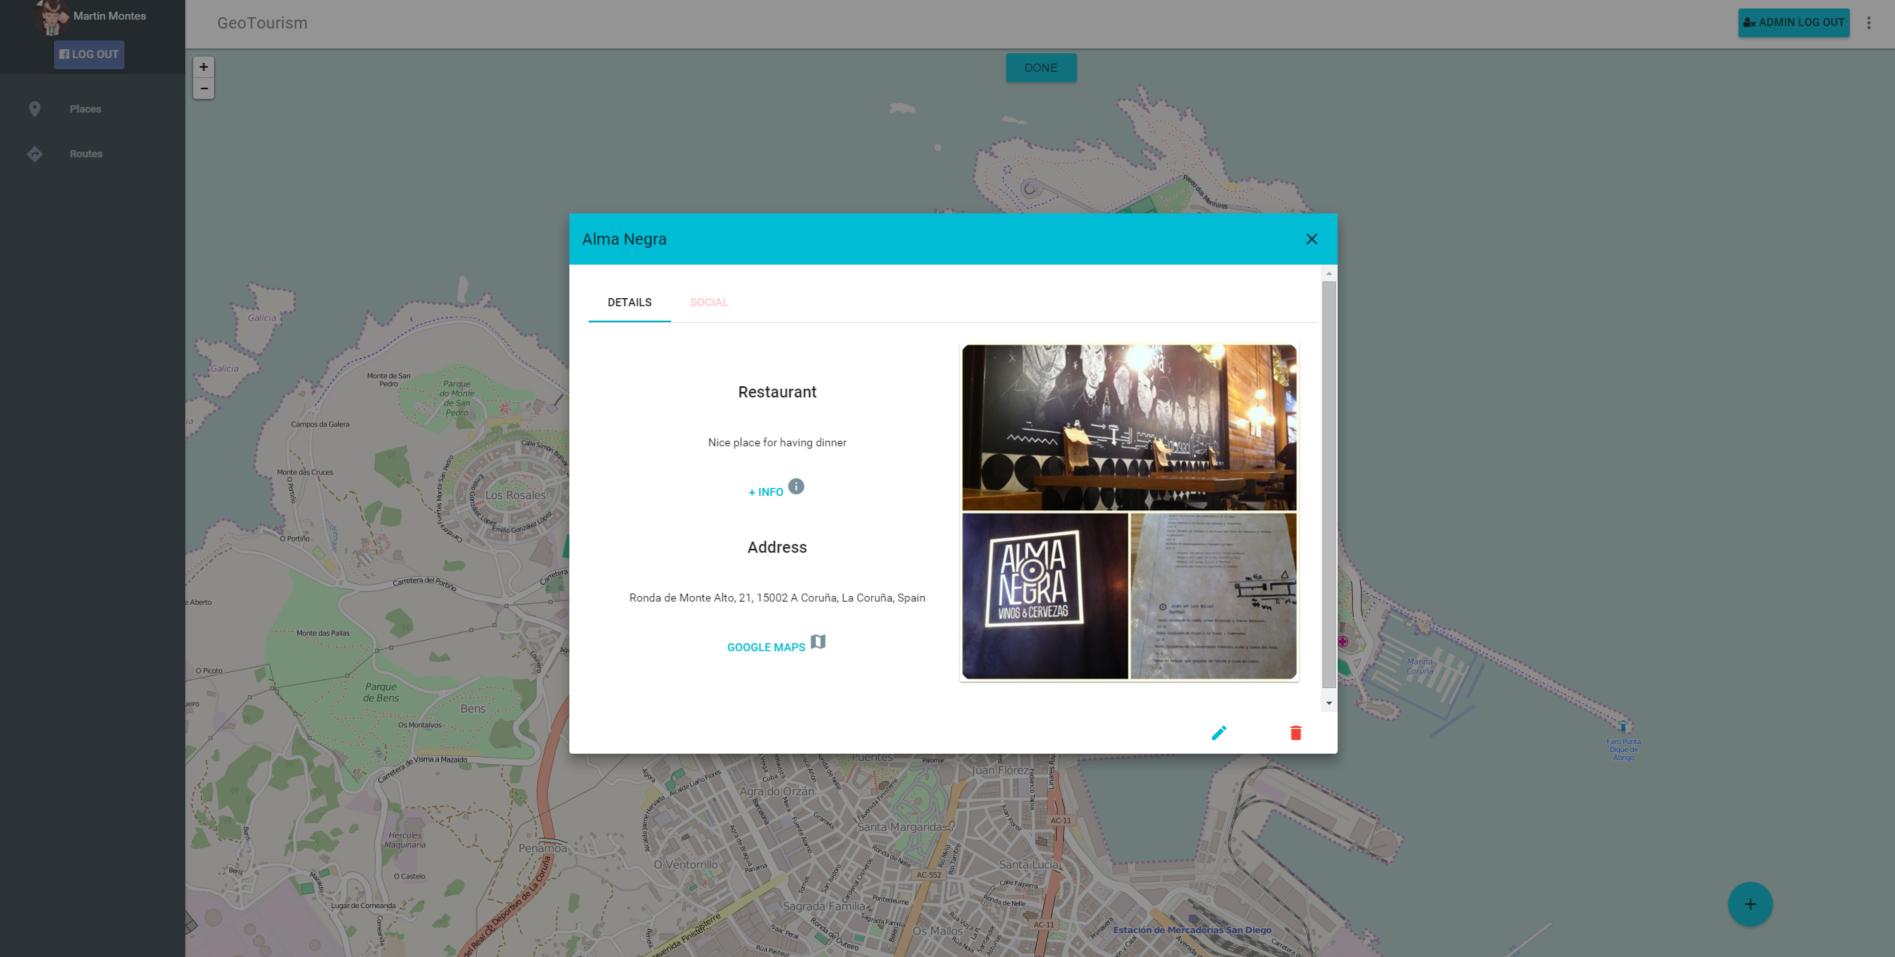
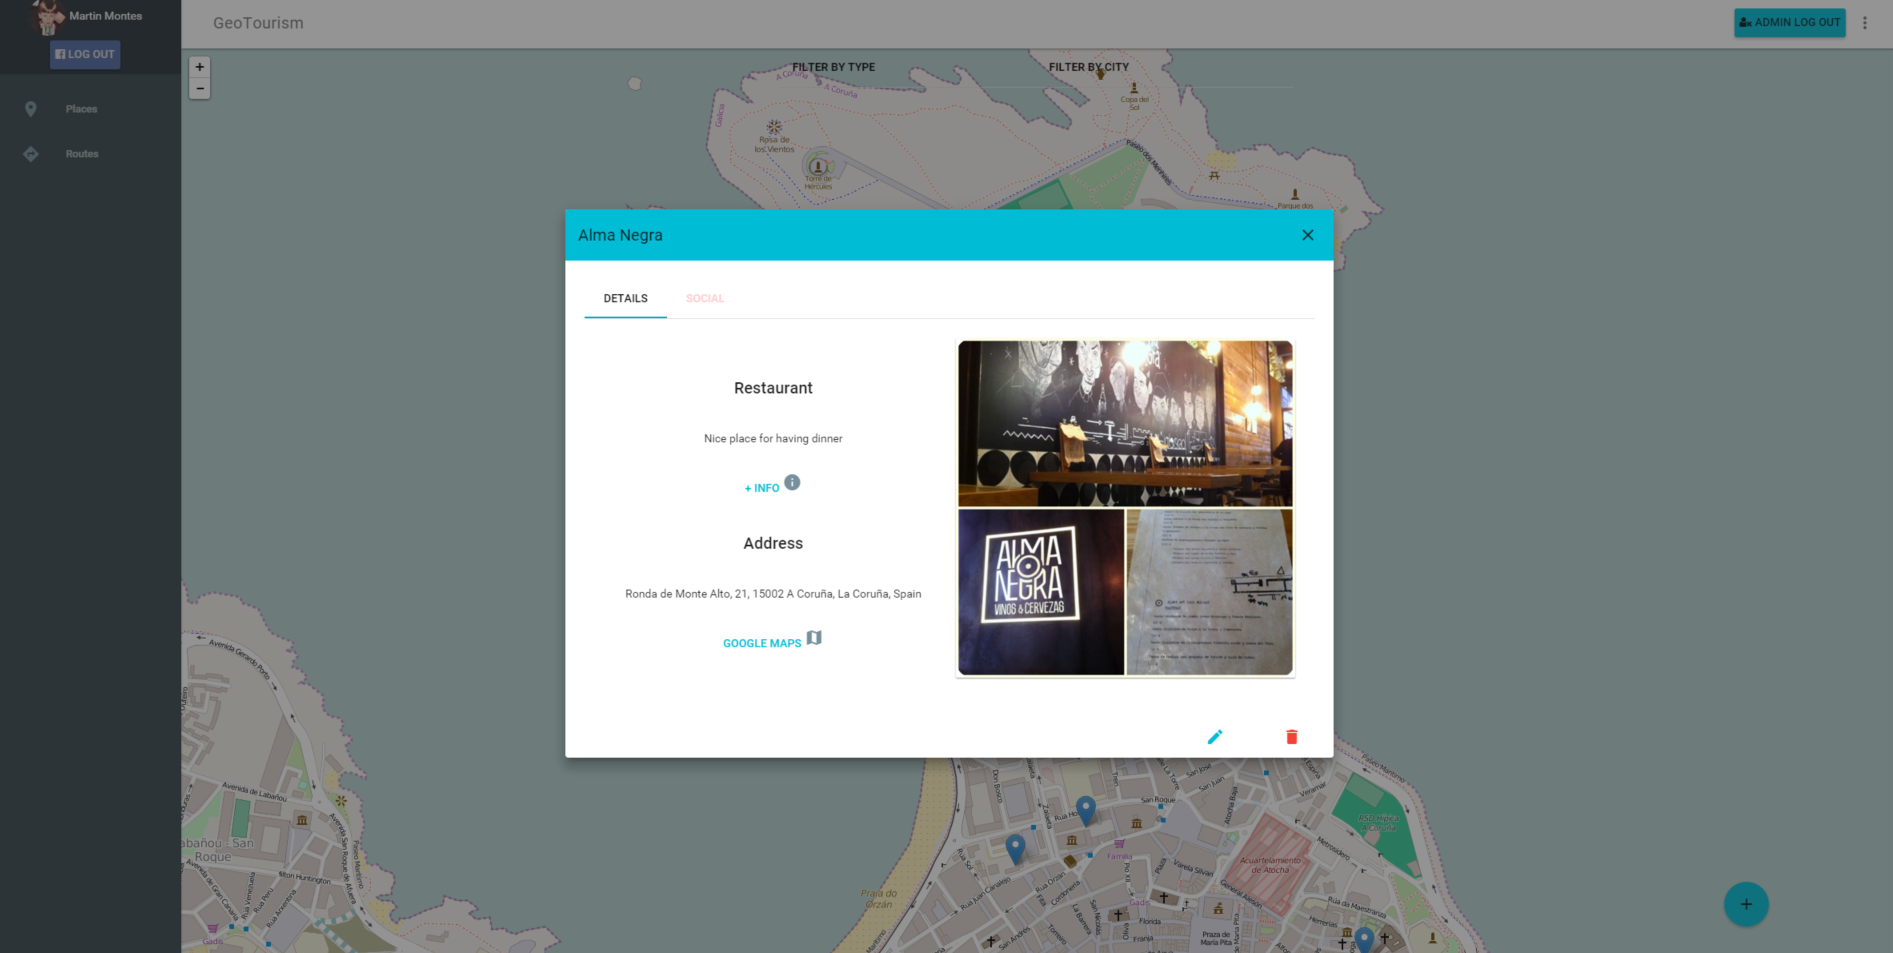
Updated project

diff --git a/index.html b/index.html
@@ -254,7 +254,8 @@
             <div class="row">
                 <div class="col-lg-12">
                     <div class="modal-body">
-                        <img src="img/portfolio/GeoTourism_Dark.jpg" class="img-responsive img-centered img-portfolio-details"
+                        <img src="img/portfolio/GeoTourism_Dark.jpg"
+                             class="img-responsive img-centered img-portfolio-details"
                              alt="">
 
                         <div class="tab-content">
@@ -270,12 +271,22 @@
                                 </li>
                             </ul>
                             <div id="descriptionGeoTourism" class="tab-pane fade in active">
-                                <p>GeoTourism is a management platform for places and routes of touristic interested<p>
-                                <p>The platform has a RESTful webservice implemented with Spring that exposes operations related with places and routes and manages
-                                    the different type of users. The data is stored in a PostgreSQL database and is accessed using Hibernate Spatial</p>
-                                <p>The platform also consumes external APIs such as: Amazon Web Services(S3), Google Maps, Facebook ...</p>
-                                <p>The client side is implemented with AngularJS, that consumes the RESTful webservice and represents the spatial data using a
-                                    Leaflet map. In order to achieve a better user experience, I used Angular Material which allows you to make a responsive front end
+                                <p>GeoTourism is a management platform for places and routes of touristic interested
+
+                                <p>
+
+                                <p>The platform has a RESTful webservice implemented with Spring that exposes operations
+                                    related with places and routes and manages
+                                    the different type of users. The data is stored in a PostgreSQL database and is
+                                    accessed using Hibernate Spatial</p>
+
+                                <p>The platform also consumes external APIs such as: Amazon Web Services(S3), Google
+                                    Maps, Facebook ...</p>
+
+                                <p>The client side is implemented with AngularJS, that consumes the RESTful webservice
+                                    and represents the spatial data using a
+                                    Leaflet map. In order to achieve a better user experience, I used Angular Material
+                                    which allows you to make a responsive front end
                                     using the material design principles</p>
                             </div>
                             <div id="infoGeoTourism" class="tab-pane fade">
@@ -302,11 +313,11 @@
                             </div>
 
                             <div id="mediaGeoTourism" class="tab-pane fade">
-                                <div id="carousel-example-generic" class="carousel slide" data-ride="carousel">
+                                <div id="carousel-geotourism" class="carousel slide" data-ride="carousel">
                                     <ol class="carousel-indicators">
-                                        <li data-target="#carousel-example-generic" data-slide-to="0" class="active"></li>
-                                        <li data-target="#carousel-example-generic" data-slide-to="1"></li>
-                                        <li data-target="#carousel-example-generic" data-slide-to="2"></li>
+                                        <li data-target="#carousel-geotourism" data-slide-to="0" class="active"></li>
+                                        <li data-target="#carousel-geotourism" data-slide-to="1"></li>
+                                        <li data-target="#carousel-geotourism" data-slide-to="2"></li>
                                     </ol>
                                     <div class="carousel-inner" role="listbox">
                                         <div class="item active">
@@ -319,29 +330,33 @@
                                             <img src="img/geotourism/place_details.png">
                                         </div>
                                     </div>
-                                    <a class="left carousel-control" href="#carousel-example-generic" role="button" data-slide="prev">
+                                    <a class="left carousel-control" href="#carousel-geotourism" role="button"
+                                       data-slide="prev">
                                         <span class="glyphicon glyphicon-chevron-left" aria-hidden="true"></span>
                                         <span class="sr-only">Previous</span>
                                     </a>
-                                    <a class="right carousel-control" href="#carousel-example-generic" role="button" data-slide="next">
+                                    <a class="right carousel-control" href="#carousel-geotourism" role="button"
+                                       data-slide="next">
                                         <span class="glyphicon glyphicon-chevron-right" aria-hidden="true"></span>
                                         <span class="sr-only">Next</span>
                                     </a>
                                 </div>
                             </div>
                         </div>
-                        <a url="https://github.com/mmontes11/GeoTourism_Server" class="btn btn-default newTabLink">
-                            <i class="fa fa-fw fa-github"></i> GitHub Server
-                        </a>
-                        <a url="https://github.com/mmontes11/GeoTourism_Web" class="btn btn-default newTabLink">
-                            <i class="fa fa-fw fa-github"></i> GitHub Web
-                        </a>
-                        <a url="#" class="btn btn-default newTabLink disabled">
-                            <i class="fa fa-fw fa-external-link"></i> Demo (Soon)
-                        </a>
-                        <a class="btn btn-default" data-dismiss="modal">
-                            <i class="fa fa-times"></i> Close
-                        </a>
+                        <div class="row">
+                            <a url="https://github.com/mmontes11/GeoTourism_Server" class="btn btn-default newTabLink">
+                                <i class="fa fa-fw fa-github"></i> GitHub Server
+                            </a>
+                            <a url="https://github.com/mmontes11/GeoTourism_Web" class="btn btn-default newTabLink">
+                                <i class="fa fa-fw fa-github"></i> GitHub Web
+                            </a>
+                            <a url="#" class="btn btn-default newTabLink disabled">
+                                <i class="fa fa-fw fa-external-link"></i> Demo (Soon)
+                            </a>
+                            <a class="btn btn-default" data-dismiss="modal">
+                                <i class="fa fa-times"></i> Close
+                            </a>
+                        </div>
                     </div>
                 </div>
             </div>
@@ -361,7 +376,8 @@
             <div class="row">
                 <div class="col-lg-8 col-lg-offset-2">
                     <div class="modal-body">
-                        <img src="img/portfolio/Big_Data_Dark.jpg" class="img-responsive img-centered img-portfolio-details"
+                        <img src="img/portfolio/Big_Data_Dark.jpg"
+                             class="img-responsive img-centered img-portfolio-details"
                              alt="">
 
                         <div class="tab-content">
@@ -374,13 +390,21 @@
                                 </li>
                             </ul>
                             <div id="descriptionBigData" class="tab-pane fade in active">
-                                <p>The aim of this project is developing a Big Data module for a tourism CMS where the administrator can
+                                <p>The aim of this project is developing a Big Data module for a tourism CMS where the
+                                    administrator can
                                     see statistical information of his website</p>
-                                <p>One first part of this module is a high performance NodeJS RESTful webservice which receives metrics from
-                                the client side and stores them in a MongoDB database</p>
-                                <p>In order to proccess and transform this big amount of data we used an ETL(Extraction Transform Load).
-                                    This process is executed everynight and stores the processd data in another MongoDB</p>
-                                <p>Once the data is processed, the admin can consult this data using a dashboard implemented with BackboneJS.
+
+                                <p>One first part of this module is a high performance NodeJS RESTful webservice which
+                                    receives metrics from
+                                    the client side and stores them in a MongoDB database</p>
+
+                                <p>In order to proccess and transform this big amount of data we used an ETL(Extraction
+                                    Transform Load).
+                                    This process is executed everynight and stores the processd data in another
+                                    MongoDB</p>
+
+                                <p>Once the data is processed, the admin can consult this data using a dashboard
+                                    implemented with BackboneJS.
                                     It displays the information using different types of charts.
                                 </p>
                             </div>
@@ -429,7 +453,8 @@
             <div class="row">
                 <div class="col-lg-8 col-lg-offset-2">
                     <div class="modal-body">
-                        <img src="img/portfolio/ERP_OpenSource_Dark.png" class="img-responsive img-centered img-portfolio-details" alt="">
+                        <img src="img/portfolio/ERP_OpenSource_Dark.png"
+                             class="img-responsive img-centered img-portfolio-details" alt="">
 
                         <div id="tab-content" class="tab-content">
                             <ul id="tabERP" class="nav nav-tabs">
@@ -494,7 +519,8 @@
             <div class="row">
                 <div class="col-lg-8 col-lg-offset-2">
                     <div class="modal-body">
-                        <img src="img/portfolio/Tenderete_Online_Dark.png" class="img-responsive img-centered img-portfolio-details"
+                        <img src="img/portfolio/Tenderete_Online_Dark.png"
+                             class="img-responsive img-centered img-portfolio-details"
                              alt="">
 
                         <div class="tab-content">
@@ -563,7 +589,8 @@
             <div class="row">
                 <div class="col-lg-8 col-lg-offset-2">
                     <div class="modal-body">
-                        <img src="img/portfolio/Charts-JS_Dark.png" class="img-responsive img-centered img-portfolio-details" alt="">
+                        <img src="img/portfolio/Charts-JS_Dark.png"
+                             class="img-responsive img-centered img-portfolio-details" alt="">
 
                         <div class="tab-content">
                             <ul id="tabCharts" class="nav nav-tabs">
@@ -633,7 +660,8 @@
             <div class="row">
                 <div class="col-lg-8 col-lg-offset-2">
                     <div class="modal-body">
-                        <img src="img/portfolio/Prediction_System_Dark.png" class="img-responsive img-centered img-portfolio-details"
+                        <img src="img/portfolio/Prediction_System_Dark.png"
+                             class="img-responsive img-centered img-portfolio-details"
                              alt="">
 
                         <div class="tab-content">
@@ -700,7 +728,8 @@
             <div class="row">
                 <div class="col-lg-8 col-lg-offset-2">
                     <div class="modal-body">
-                        <img src="img/portfolio/SportsNow_Dark.png" class="img-responsive img-centered img-portfolio-details" alt="">
+                        <img src="img/portfolio/SportsNow_Dark.png"
+                             class="img-responsive img-centered img-portfolio-details" alt="">
 
                         <div class="tab-content">
                             <ul id="tabSports" class="nav nav-tabs">

diff --git a/css/freelancer.css b/css/freelancer.css
@@ -80,7 +80,7 @@ hr.star-primary:after {
 }
 
 .img-portfolio-details {
-    height: 300px;
+    max-height: 300px;
     width: auto;
 }
 
@@ -407,7 +407,7 @@ footer .footer-below {
 }
 
 .portfolio-modal .modal-content img {
-    margin-bottom: 30px;
+    margin-bottom: 1%;
 }
 
 .portfolio-modal .modal-content .item-details {
